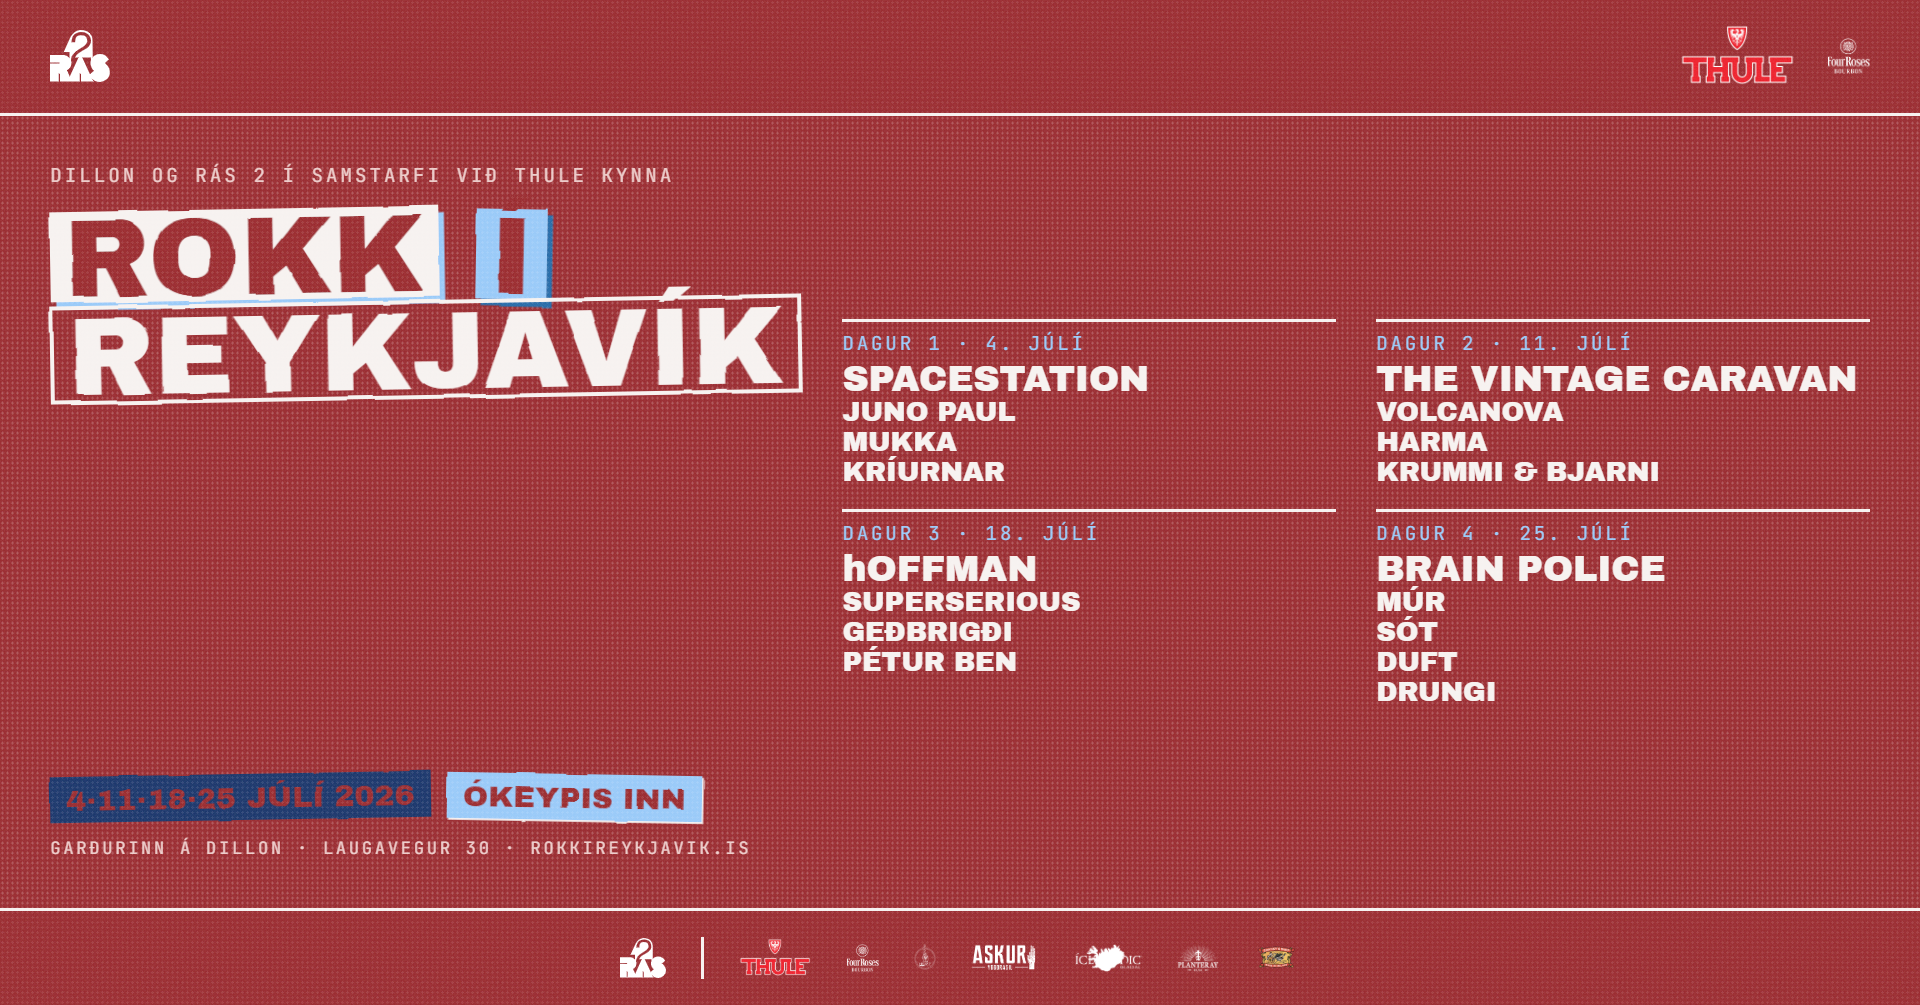
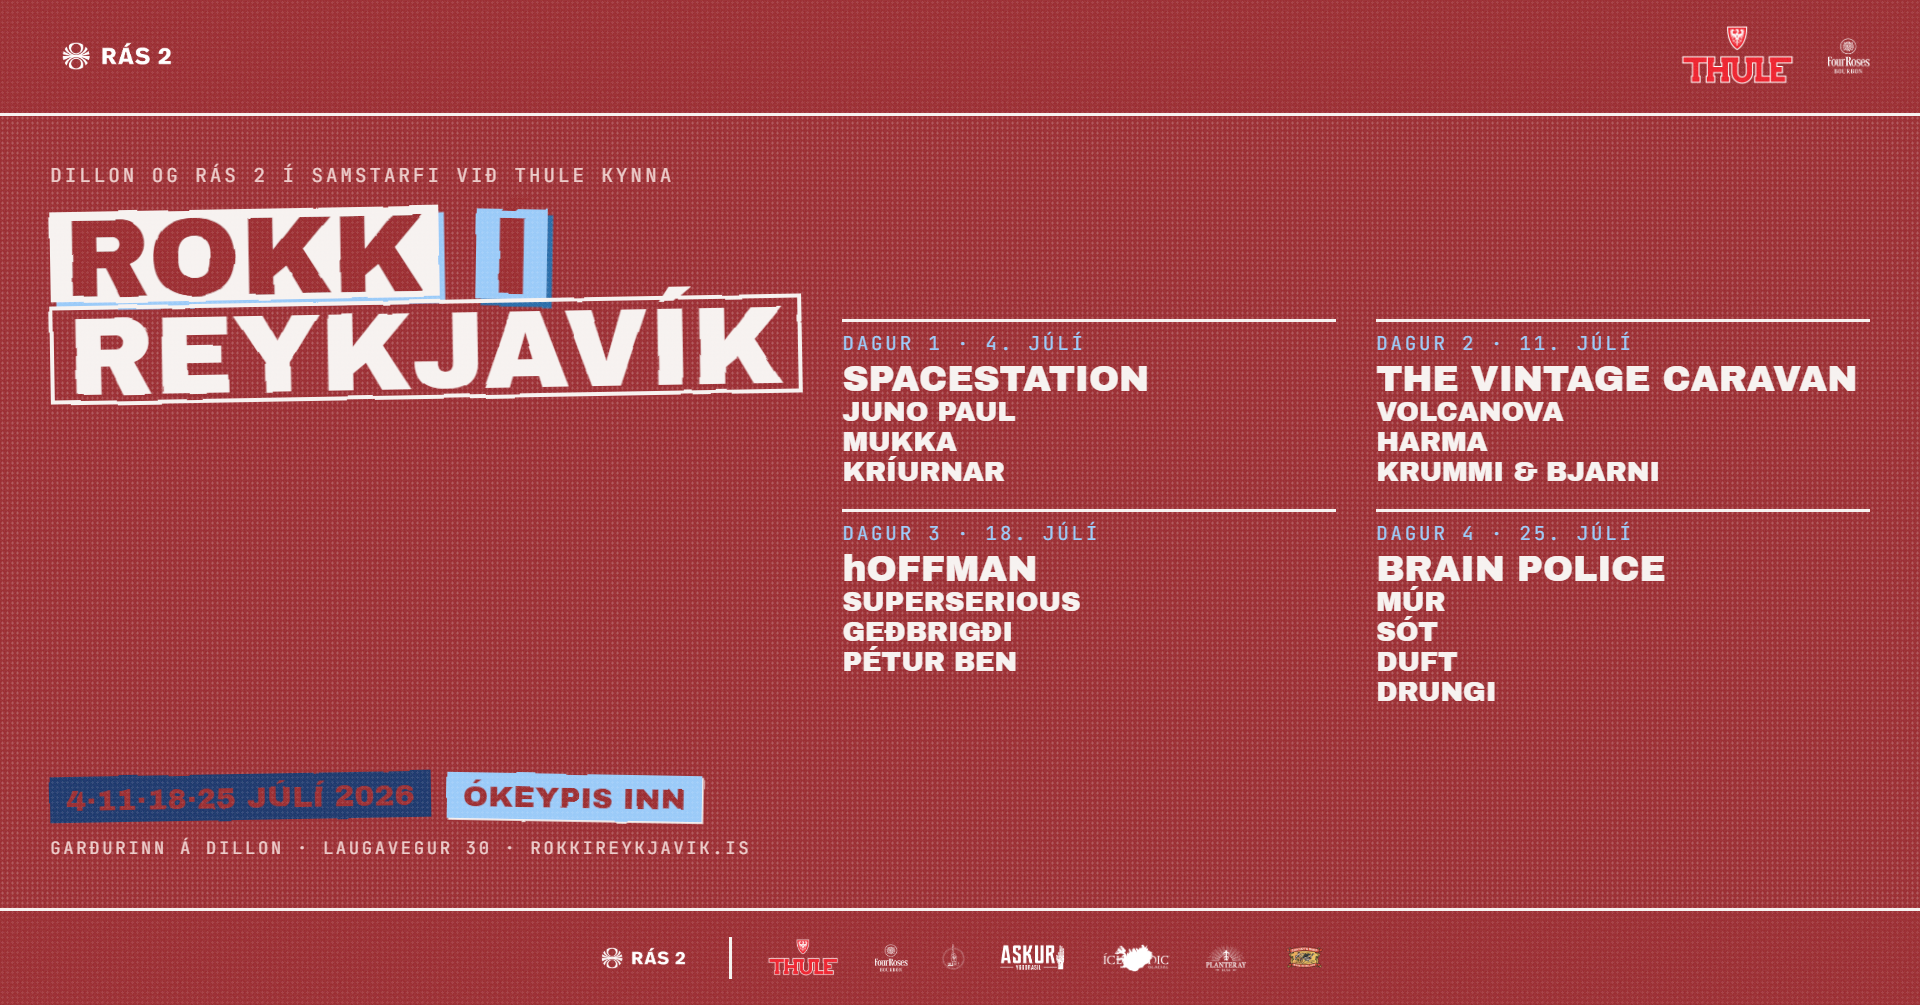
feat(poster): use the white Rás 2 mark on dark poster themes
Rás 2 in the poster sponsor strips is now theme-aware: the supplied white PNG
on dark grounds (svart, Fáni, Dósin, Pönk), the inking SVG on light grounds
(bleikt, Ískaldur, Silki). Regenerate og.png (Dósin) so the share image carries
the new mark; bump the cache-buster to v3.

Changed region(s): [[0.3125, 0.9254, 0.6875, 0.9871], [0.0, 0.0308, 0.0938, 0.0925]]

diff --git a/src/components/poster/poster-sponsors.tsx b/src/components/poster/poster-sponsors.tsx
@@ -13,8 +13,15 @@
  */
 import * as React from "react";
 import { sponsors } from "@/data/sponsors";
+import { isDarkTheme, type PosterTheme } from "./band-poster";
 
-const RAS2 = "/images/logos/ras2.svg";
+/** Rás 2 mark for the given theme: the supplied white PNG on dark grounds
+ *  (rendered as-is), the inking SVG on light grounds (flattened to black). */
+function ras2Mark(theme: PosterTheme): { src: string; keep: boolean } {
+  return isDarkTheme(theme)
+    ? { src: "/images/logos/Ras2_White.png", keep: true }
+    : { src: "/images/logos/ras2.svg", keep: false };
+}
 
 function byId(id: string) {
   return sponsors.find((s) => s.id === id);
@@ -38,14 +45,15 @@ function Rule({ h }: { h: number }) {
   return <span aria-hidden className="shrink-0 bg-bone" style={{ height: `${h}cqmin`, width: "0.3cqmin" }} />;
 }
 
-export function PosterSponsorTop() {
+export function PosterSponsorTop({ theme = "bleikt" }: { theme?: PosterTheme }) {
   const thule = byId("thule");
   const fourRoses = byId("four-roses");
+  const ras2 = ras2Mark(theme);
   return (
     <div className="relative z-[45] flex items-center justify-between gap-[4cqmin] border-b-[0.35cqmin] border-bone px-[5cqmin] py-[2.4cqmin]">
       {/* Rás 2 (presenter, leads the festival) and Thule (lead sponsor) are the
           two prominent marks; Four Roses sits a step smaller. */}
-      <Logo src={RAS2} alt="Rás 2" h={5.2} />
+      <Logo src={ras2.src} keep={ras2.keep} alt="Rás 2" h={5.2} />
       <div className="flex items-center gap-[3cqmin]">
         {thule && <Logo src={thule.logo} alt={thule.name} h={6.4} keep />}
         {fourRoses && <Logo src={fourRoses.logo} alt={fourRoses.name} h={3.6} />}
@@ -54,10 +62,11 @@ export function PosterSponsorTop() {
   );
 }
 
-export function PosterSponsorBottom() {
+export function PosterSponsorBottom({ theme = "bleikt" }: { theme?: PosterTheme }) {
+  const ras2 = ras2Mark(theme);
   return (
     <div className="relative z-[45] flex flex-wrap items-center justify-center gap-x-[3.4cqmin] gap-y-[1.6cqmin] border-t-[0.35cqmin] border-bone px-[5cqmin] py-[2.6cqmin]">
-      <Logo src={RAS2} alt="Rás 2" h={4} />
+      <Logo src={ras2.src} keep={ras2.keep} alt="Rás 2" h={4} />
       <Rule h={4.2} />
       {sponsors.map((s) => (
         <Logo key={s.id} src={s.logo} alt={s.name} h={s.id === "thule" ? 4 : 2.8} keep={s.treatment === "keep"} />

diff --git a/src/components/poster/band-poster.tsx b/src/components/poster/band-poster.tsx
@@ -41,6 +41,13 @@ export function posterLook(theme: PosterTheme): string | undefined {
   return theme === "bleikt" ? undefined : theme;
 }
 
+/** Themes with a dark ground — knock-outs read light, so the white Rás 2 mark
+ *  is used as-is; light themes ink the SVG black instead. */
+const DARK_THEMES = new Set<PosterTheme>(["svart", "thule-fani", "thule-dos", "thule-xerox"]);
+export function isDarkTheme(theme: PosterTheme): boolean {
+  return DARK_THEMES.has(theme);
+}
+
 /** Display pixel sizes. Headless capture multiplies these via deviceScaleFactor
  * for print resolution, so these stay screen-friendly. The two `fb*` formats are
  * landscape (only the front poster renders them) and capture at native size. */
@@ -107,13 +114,13 @@ export function BandPoster({
       style={{ width: size.w, height: size.h, containerType: "size" }}
     >
       <PosterFilters />
-      <PosterSponsorTop />
+      <PosterSponsorTop theme={theme} />
       <div className="relative flex-1 overflow-hidden">
         {variant === "mynd" && <MyndPoster artist={artist} />}
         {variant === "typo" && <TypoPoster artist={artist} />}
         {variant === "klassik" && <KlassikPoster artist={artist} />}
       </div>
-      <PosterSponsorBottom />
+      <PosterSponsorBottom theme={theme} />
       <PosterHalftone className="z-40 opacity-[0.18]" />
       <PosterGrain />
     </div>

diff --git a/src/app/layout.tsx b/src/app/layout.tsx
@@ -42,13 +42,13 @@ export const metadata: Metadata = {
     siteName: site.name,
     title: presenterLockup,
     description: `Fjórir laugardagar. Sautján bönd. Ókeypis inn. Júlí ${EVENT_YEAR}.`,
-    images: [{ url: "/og.png?v=2", width: 1920, height: 1005, alt: `${site.name} ${EVENT_YEAR}` }],
+    images: [{ url: "/og.png?v=3", width: 1920, height: 1005, alt: `${site.name} ${EVENT_YEAR}` }],
   },
   twitter: {
     card: "summary_large_image",
     title: `${site.name} ${site.yearLabel}`,
     description: `${site.description} Ókeypis inn — júlí ${EVENT_YEAR}.`,
-    images: ["/og.png?v=2"],
+    images: ["/og.png?v=3"],
   },
   robots: { index: true, follow: true },
 };

diff --git a/src/components/poster/day-poster.tsx b/src/components/poster/day-poster.tsx
@@ -43,13 +43,13 @@ export function DayPoster({
       style={{ width: size.w, height: size.h, containerType: "size" }}
     >
       <PosterFilters />
-      <PosterSponsorTop />
+      <PosterSponsorTop theme={theme} />
       <div className="relative flex-1 overflow-hidden">
         {variant === "mynd" && <MyndDay event={event} />}
         {variant === "typo" && <TypoDay event={event} />}
         {variant === "klassik" && <KlassikDay event={event} />}
       </div>
-      <PosterSponsorBottom />
+      <PosterSponsorBottom theme={theme} />
       <PosterHalftone className="z-40 opacity-[0.16]" />
       <PosterGrain />
     </div>

diff --git a/src/components/poster/front-poster.tsx b/src/components/poster/front-poster.tsx
@@ -47,7 +47,7 @@ export function FrontPoster({
       style={{ width: size.w, height: size.h, containerType: "size", ...safe }}
     >
       <PosterFilters />
-      <PosterSponsorTop />
+      <PosterSponsorTop theme={theme} />
       <div className="relative flex-1 overflow-hidden">
         {landscape ? (
           <LandscapeFront />
@@ -59,7 +59,7 @@ export function FrontPoster({
           </>
         )}
       </div>
-      <PosterSponsorBottom />
+      <PosterSponsorBottom theme={theme} />
       <PosterHalftone className="z-40 opacity-[0.16]" />
       <PosterGrain />
     </div>